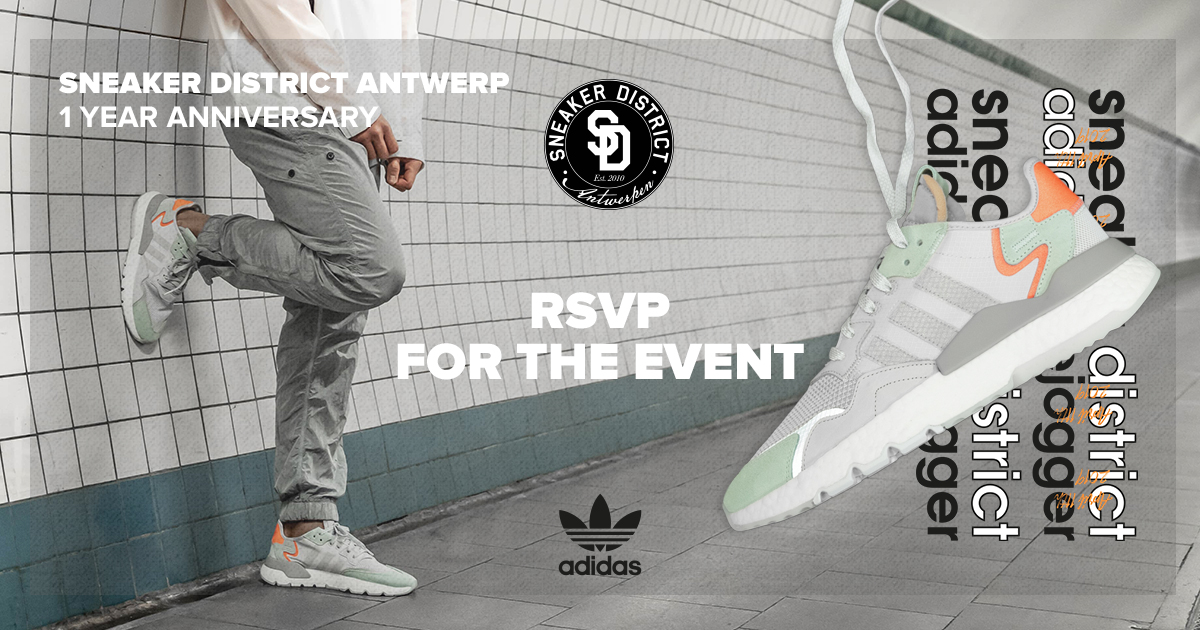
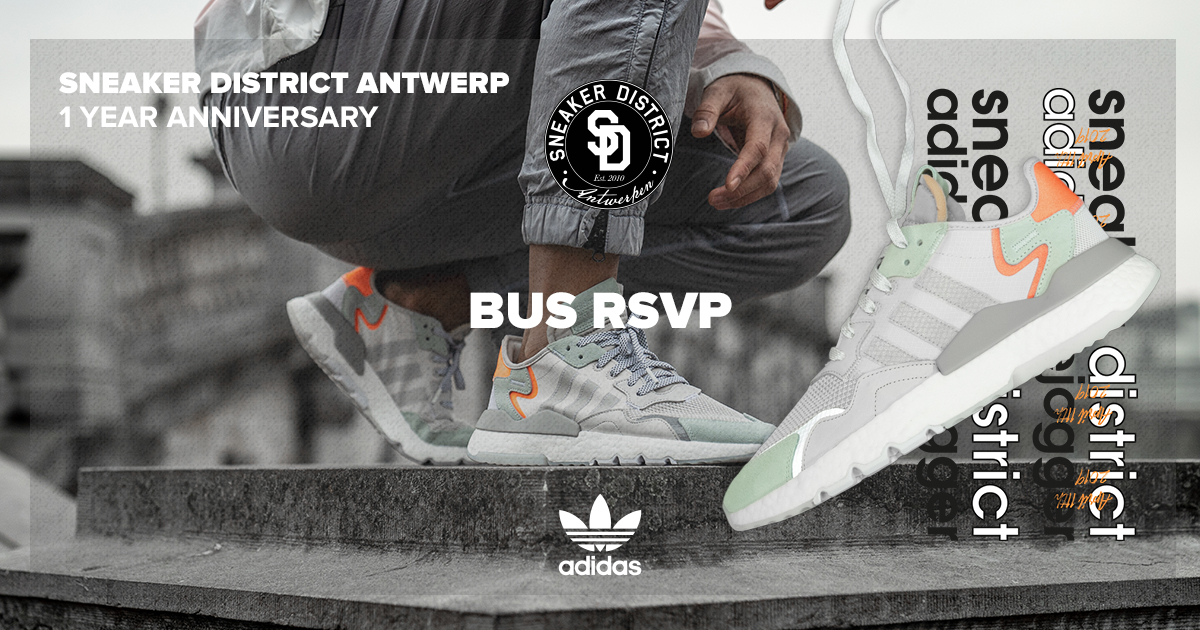
replaced mailchimp list id, replaced text and images

diff --git a/index.php b/index.php
@@ -2,7 +2,7 @@
 <html lang="en">
 <head>
     <meta charset="UTF-8">
-    <title>RSVP | Sneaker District Antwerp</title>
+    <title>Bus RSVP | Sneaker District Antwerp</title>
     <link rel="stylesheet" type="text/css" href="assets/css/stylesheet.css"/>
     <link rel="stylesheet" type="text/css" href="assets/css/reset.css"/>
     <meta name="viewport" content="width=device-width, initial-scale=1.0, maximum-scale=1.0, user-scalable=0">
@@ -104,7 +104,7 @@
                                 </a></li>
                             <li><a>
                                     <span class="detail-title">Time</span>
-                                    <span>18:00 - 21:30</span>
+                                    <span>15:30</span>
                                 </a></li>
                         </ul>
 

diff --git a/functions/mailchimp.php b/functions/mailchimp.php
@@ -1,7 +1,7 @@
 <?php
 // API to mailchimp ########################################################
 $apiKey = '49c8b70a7d7aaf01cd9b1dcac76e475b-us14';
-$listId = '965e7e9012';
+$listId = '5d321080aa';
 $max_subscribers = 50;
 
 // insert subscribers
